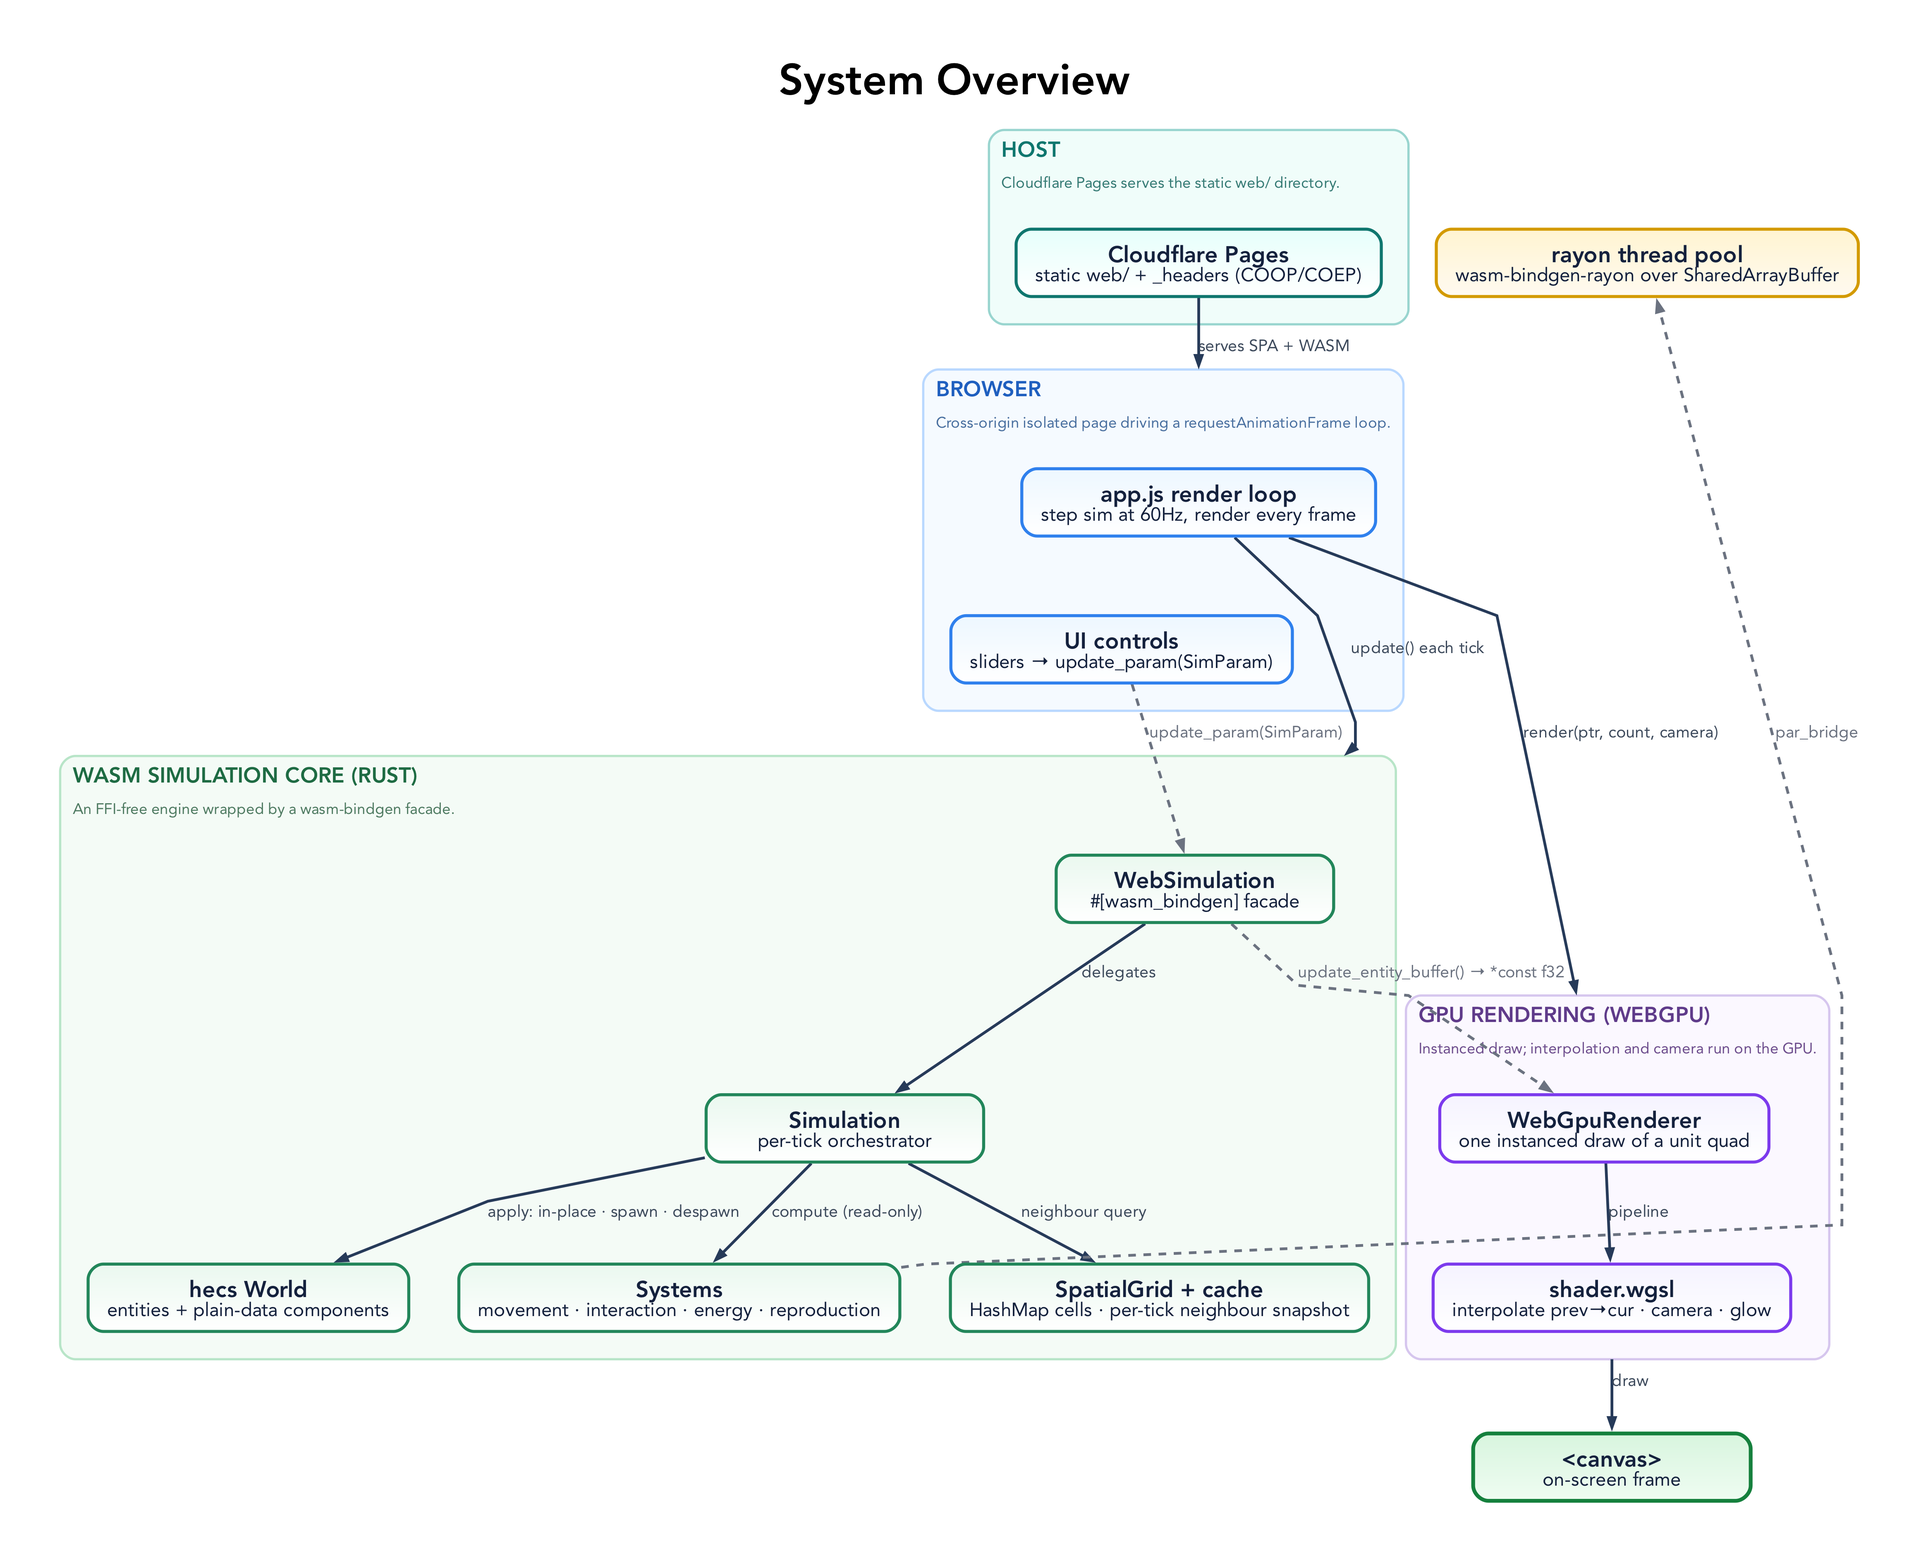
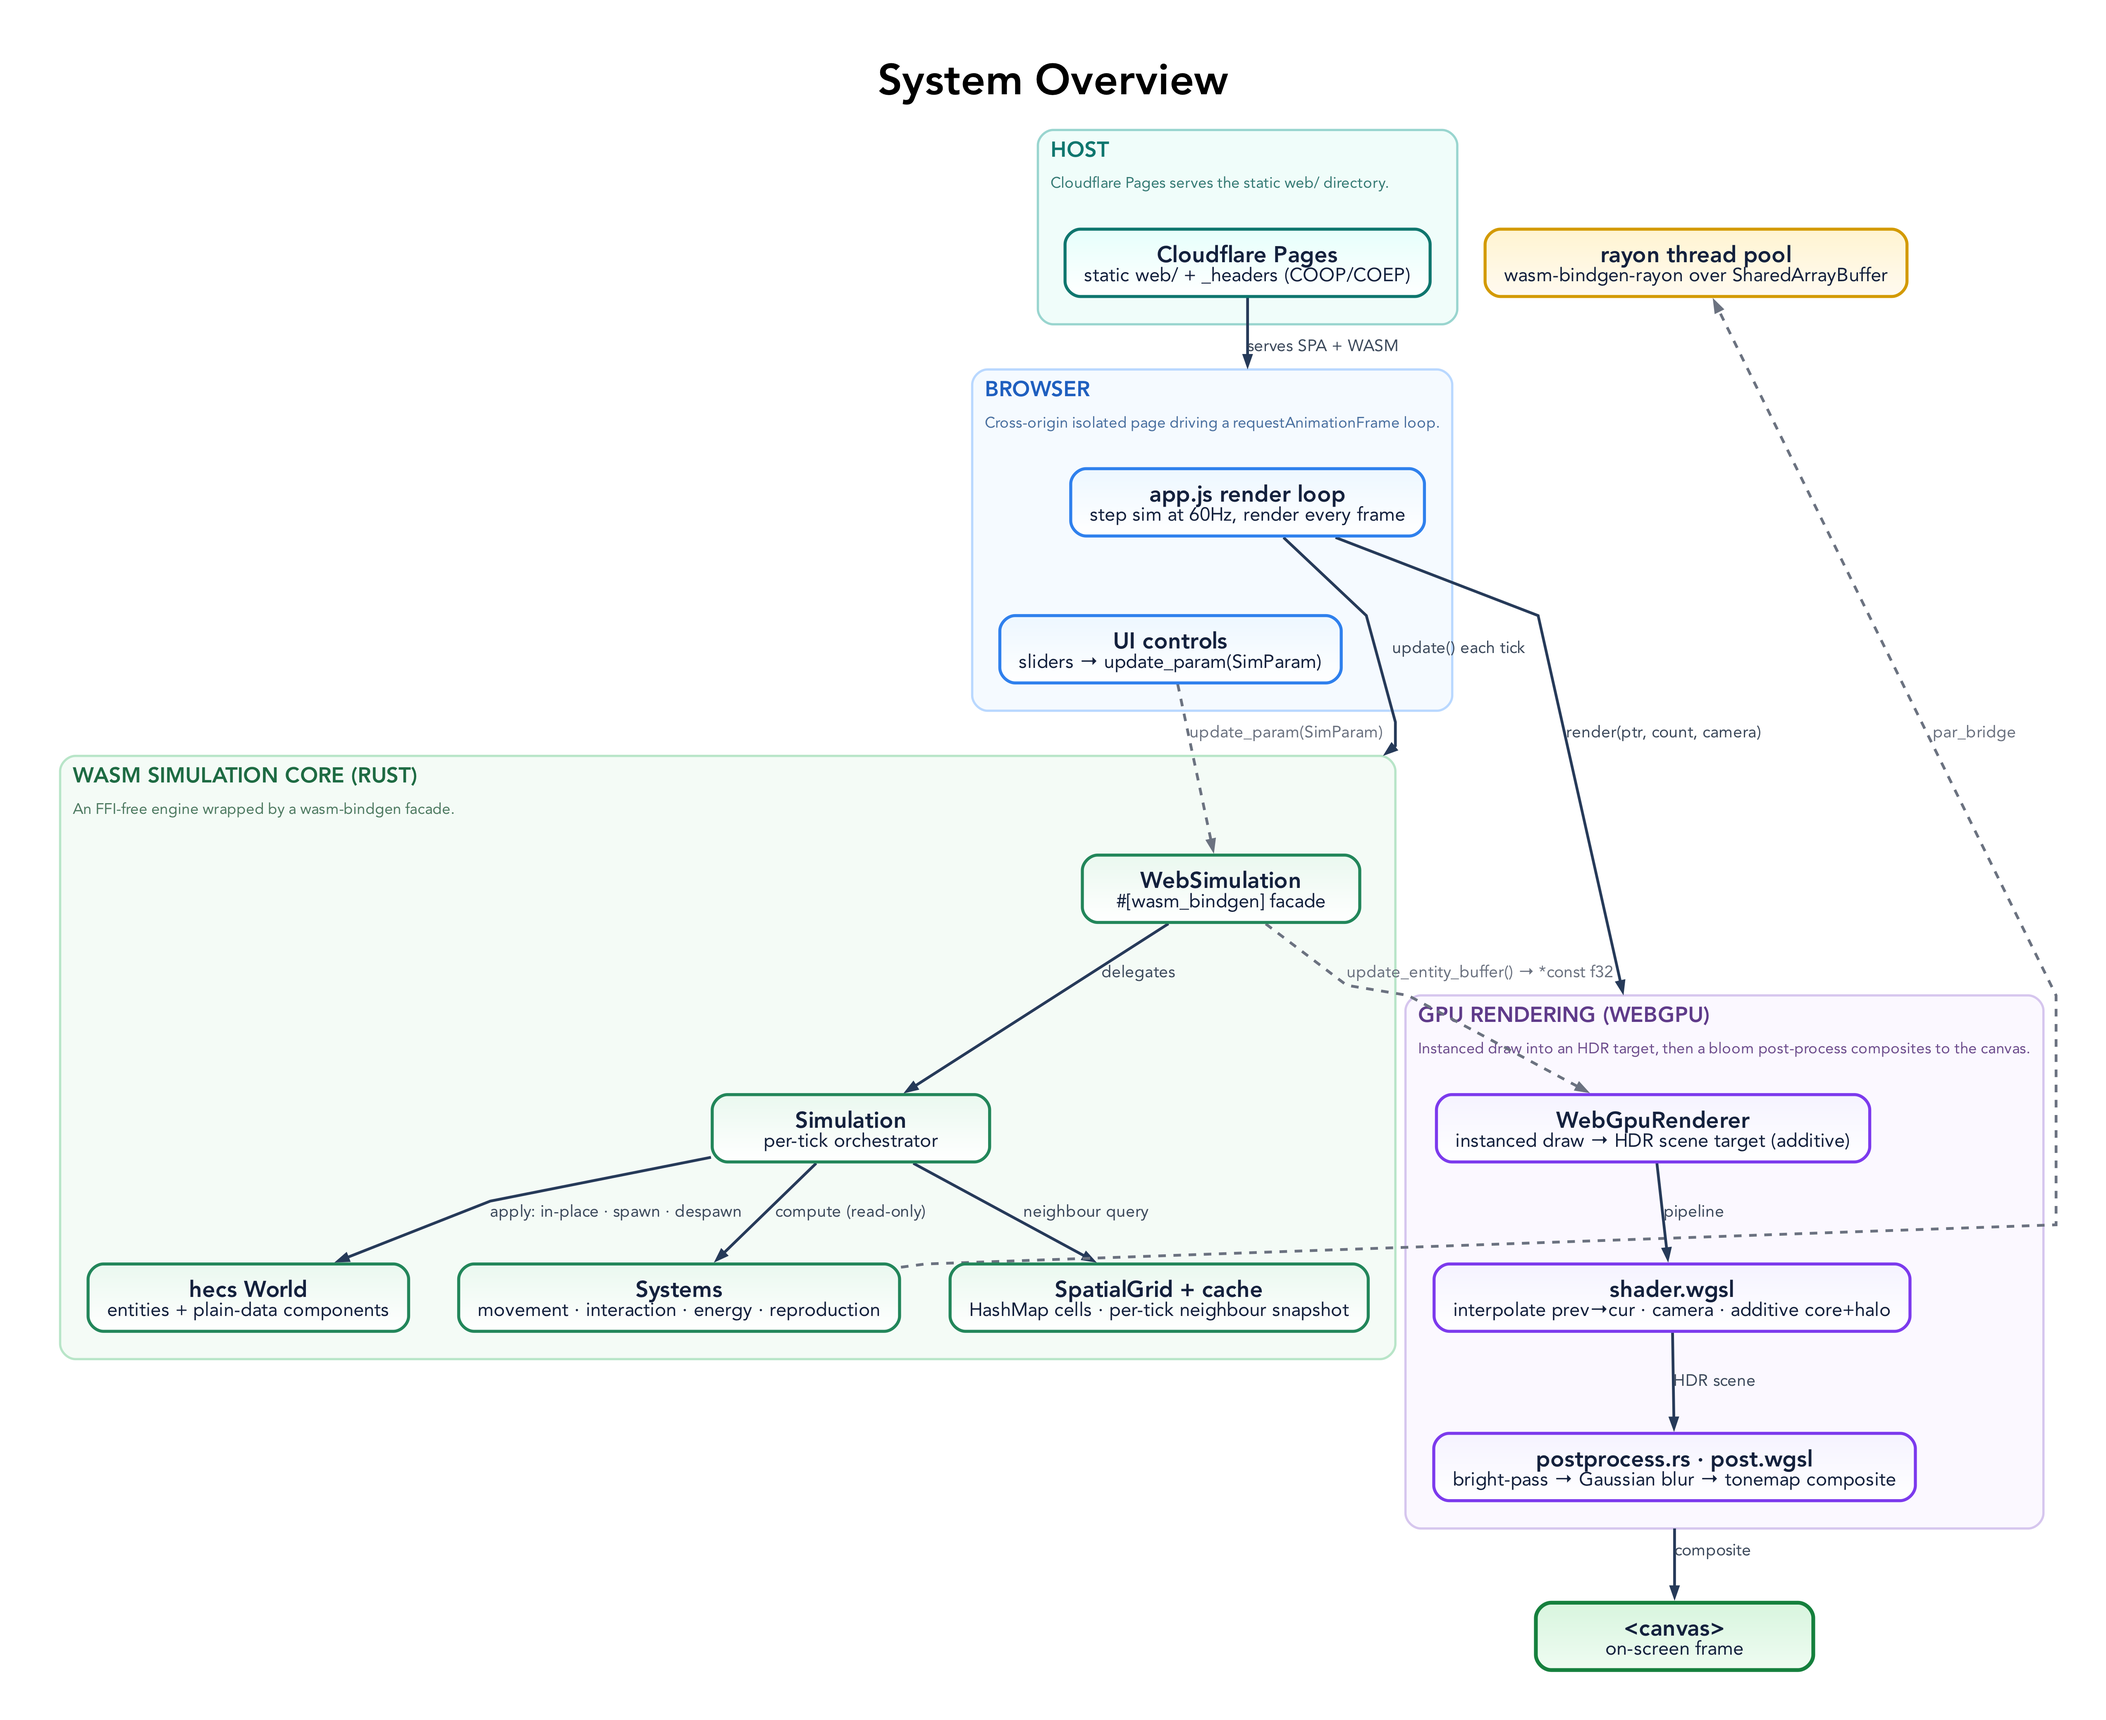
Document the HDR + bloom rendering pipeline
Bring the architecture docs and system diagram in line with the renderer:
the frame now draws particles additively into an HDR scene target and runs
a bloom post-process (bright-pass -> Gaussian blur -> tonemapped composite)
before presenting to the canvas.

- ARCHITECTURE.md: stack table, repo layout (post.wgsl), and the Rendering
  Pipeline steps now describe the HDR target + bloom passes.
- system-overview.dot/.png: GPU cluster shows the scene -> bloom -> canvas flow.

diff --git a/docs/ARCHITECTURE.md b/docs/ARCHITECTURE.md
@@ -11,7 +11,7 @@
 | Language | Rust (edition 2021) | ~5,400 lines across `src/` (about 3,150 excluding tests) |
 | ECS | `hecs` 0.9 | Lightweight archetypal ECS; systems are hand-orchestrated (no scheduler) |
 | Parallelism | `rayon` | Parallel per-entity processing over ECS queries |
-| Rendering | `wgpu` 24 (WebGPU) | Instanced quads with a glow shader |
+| Rendering | `wgpu` 24 (WebGPU) | Instanced quads → HDR scene target → bloom post-process |
 | In-browser threads | `wasm-bindgen-rayon` + `SharedArrayBuffer` | Requires cross-origin-isolation headers |
 | Toolchain | nightly-2024-08-02 | Needed for `-Z build-std` (atomics-enabled `std` for WASM threads) |
 | Host | Cloudflare Pages | Static `web/` directory served with `_headers` |
@@ -30,8 +30,9 @@ src/
 ├── spatial_grid.rs     # Spatial hash (cells → entities) for neighbour queries
 ├── systems/            # movement/, interaction/ (predation), energy, reproduction
 ├── stats/              # Population statistics, serialized to JS
-├── web/                # WebGPU renderer (wasm32-only)
-└── shader.wgsl         # Vertex (interpolation + camera) + fragment (glow) shaders
+├── web/                # WebGPU renderer + bloom post-process (wasm32-only)
+├── shader.wgsl         # Particle shader: vertex (interpolation + camera) + fragment (additive glow)
+└── post.wgsl           # Bloom: bright-pass → Gaussian blur → tonemapped composite
 web/                    # Static frontend (index.html, js/app.js, _headers) — the deploy root
 scripts/                # build-web.sh (wasm-pack + cache-busting), setup.sh
 ```
@@ -90,8 +91,9 @@ The CPU never builds vertex geometry per entity. Instead:
 
 1. `WebSimulation::update_entity_buffer()` ([src/lib.rs](../src/lib.rs)) flattens every entity into a packed `f32` buffer — **8 floats each**: `prev_x, prev_y, x, y, radius, r, g, b` — and returns a raw pointer into WASM linear memory (zero-copy).
 2. `entity_count()` returns `buffer.len() / 8`.
-3. The renderer ([src/web/webgpu.rs](../src/web/webgpu.rs)) reinterprets that slice directly as `&[Instance]` (`bytemuck::cast_slice` — the layouts are identical, so there's no per-frame copy), uploads it to a growable instance buffer, and issues a single instanced draw of a unit quad.
-4. `shader.wgsl` does the heavy lifting on the GPU: it interpolates between `prev` and current position for smooth motion between sim steps, applies the world→screen + camera (zoom/pan) transform, and draws a multi-layer glow in the fragment stage.
+3. The renderer ([src/web/webgpu.rs](../src/web/webgpu.rs)) reinterprets that slice directly as `&[Instance]` (`bytemuck::cast_slice` — the layouts are identical, so there's no per-frame copy), uploads it to a growable instance buffer, and issues a single instanced draw of a unit quad into an **HDR (`rgba16float`) scene target with additive blending**, so overlapping creatures accumulate brightness past 1.0.
+4. `shader.wgsl` does the heavy lifting on the GPU: it interpolates between `prev` and current position for smooth motion between sim steps, applies the world→screen + camera (zoom/pan) transform, and emits an additive bright core + soft halo in the fragment stage.
+5. A bloom post-process ([src/web/postprocess.rs](../src/web/postprocess.rs), `post.wgsl`) turns the HDR scene into the final frame: a **bright-pass** isolates the glowing regions, a **separable Gaussian blur** at quarter resolution widens them, and a **tonemapped composite** adds the bloom back over the scene and maps it into the swapchain. Each pass draws one fullscreen triangle.
 
 ## Threading & WASM
 
